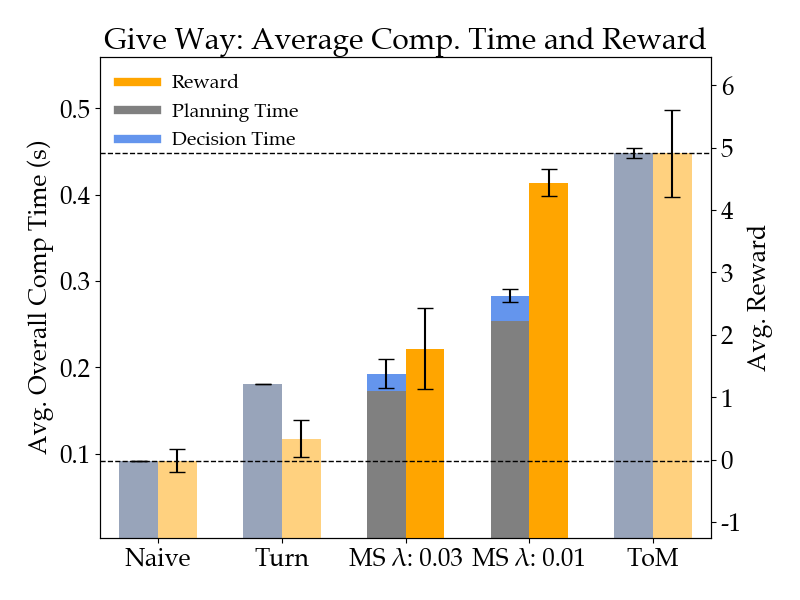
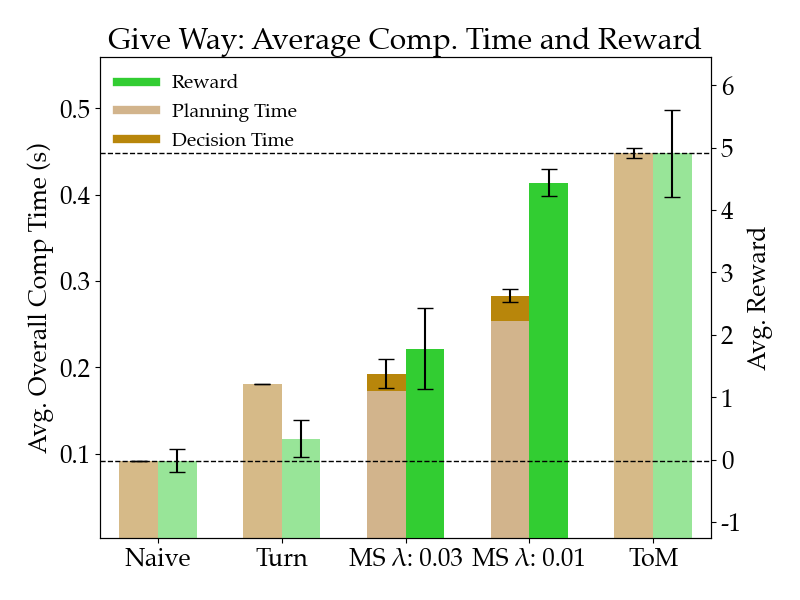
updated results coloring

diff --git a/experiments/logs/display_results.py b/experiments/logs/display_results.py
@@ -54,6 +54,10 @@ plt.rcParams.update({'hatch.linewidth': 3,
                      'figure.figsize': (8, 6)})
 P_STYLE = {'alpha': 0.5}
 
+RC = 'limegreen'
+PTC = 'tan'
+DTC = 'darkgoldenrod'
+
 N = len(names)
 bar_width = 0.25
 bar_spacing = bar_width * 2 + 0.3
@@ -89,12 +93,12 @@ ax1.set_xticks(np.array(time_x) + bar_width * 0.5)
 ax1.set_xticklabels(names)
 
 ax1.bar(get(time_x, MS), get(ovr_time_bars, MS), width = bar_width, 
-        color = 'cornflowerblue', yerr = get(time_confs, MS), capsize = 6.0)
-ax1.bar(get(time_x, MS), get(plan_time_bars, MS), width = bar_width, color = 'gray')
+        color = DTC, yerr = get(time_confs, MS), capsize = 6.0)
+ax1.bar(get(time_x, MS), get(plan_time_bars, MS), width = bar_width, color = PTC)
 
 ax1.bar(get(time_x, P), get(ovr_time_bars, P), width = bar_width, 
-        color = 'cornflowerblue', yerr = get(time_confs, P), capsize = 6.0, **P_STYLE)
-ax1.bar(get(time_x, P), get(plan_time_bars, P), width = bar_width, color = 'gray', **P_STYLE)
+        color = DTC, yerr = get(time_confs, P), capsize = 6.0, **P_STYLE)
+ax1.bar(get(time_x, P), get(plan_time_bars, P), width = bar_width, color = PTC, **P_STYLE)
 
 rew_shift = rew_bars[0]
 max_rew = rew_bars[-1]
@@ -114,17 +118,17 @@ ax2.set_yticks(yticks)
 ax2.set_yticklabels([f"{v + rew_shift:.0f}" for v in yticks])
 
 ax2.bar(get(rew_x, MS), get(rew_bars, MS), width = bar_width, 
-        color = 'orange', yerr = get(rew_confs, MS), capsize = 6.0)
+        color = RC, yerr = get(rew_confs, MS), capsize = 6.0)
 
 ax2.bar(get(rew_x, P), get(rew_bars, P), width = bar_width, 
-        color = 'orange', yerr = get(rew_confs, P), capsize = 6.0, **P_STYLE)
+        color = RC, yerr = get(rew_confs, P), capsize = 6.0, **P_STYLE)
 
 ax2.hlines(rew_bars[0] , min_x, max_x, lw = 1, linestyle = 'dashed')
 ax2.hlines(rew_bars[-1], min_x, max_x, lw = 1, linestyle = 'dashed')
 
-legend_elements = [Line2D([0], [0], color='orange', lw=6, label='Reward'),
-                   Line2D([0], [0], color='gray', lw=6, label='Planning Time'),
-                   Line2D([0], [0], color='cornflowerblue', lw=6, label='Decision Time'),]
+legend_elements = [Line2D([0], [0], color=RC, lw=6, label='Reward'),
+                   Line2D([0], [0], color=PTC, lw=6, label='Planning Time'),
+                   Line2D([0], [0], color=DTC, lw=6, label='Decision Time'),]
 
 ax2.legend(handles=legend_elements, loc='upper left', framealpha=1.0, 
            frameon = False, fontsize = 14)

diff --git a/experiments/logs/explore_exp_logs.py b/experiments/logs/explore_exp_logs.py
@@ -41,7 +41,7 @@ LAMBDAS = sorted(list(experiment_log['runs'].keys()))
 print(f"{NUM_RUN} trials of {TIME_STEPS} saved for {len(LAMBDAS)} lambdas.")
 
 LOG_INDICES = experiment_log['log_indices']
-COLORS = ['orange', 'cornflowerblue', 'g'][:len(LAMBDAS)]
+COLORS = ['gold','darkturquoise'][:len(LAMBDAS)]
 
 def extract(value, log):
     if (value in LOG_INDICES):
@@ -137,9 +137,9 @@ def ovr_time_by_y(relative_radius = 0.05, num_points = 100, err_sd = 2.0):
         plt.fill_between(y_values, mean_time - err_time, mean_time + err_time, 
                          color = COLORS[lambd_index], alpha = 0.5)
 
-    plt.title(f"Give Way: Overall Time by Y Position")
-    legend_elements = [Line2D([0], [0], color='orange', lw=6, label=f'\u03BB: {LAMBDAS[0]}'),
-                       Line2D([0], [0], color='cornflowerblue', lw=6, label=f'\u03BB: {LAMBDAS[1]}'),]
+    plt.title(f"Overall Time by Y Position")
+    legend_elements = [Line2D([0], [0], color=COLORS[0], lw=6, label=f'\u03BB: {LAMBDAS[0]}'),
+                       Line2D([0], [0], color=COLORS[1], lw=6, label=f'\u03BB: {LAMBDAS[1]}'),]
     plt.legend(handles=legend_elements, loc='upper right', framealpha=1.0, 
            frameon = False, fontsize = 14)
     plt.xlabel("Y position")
